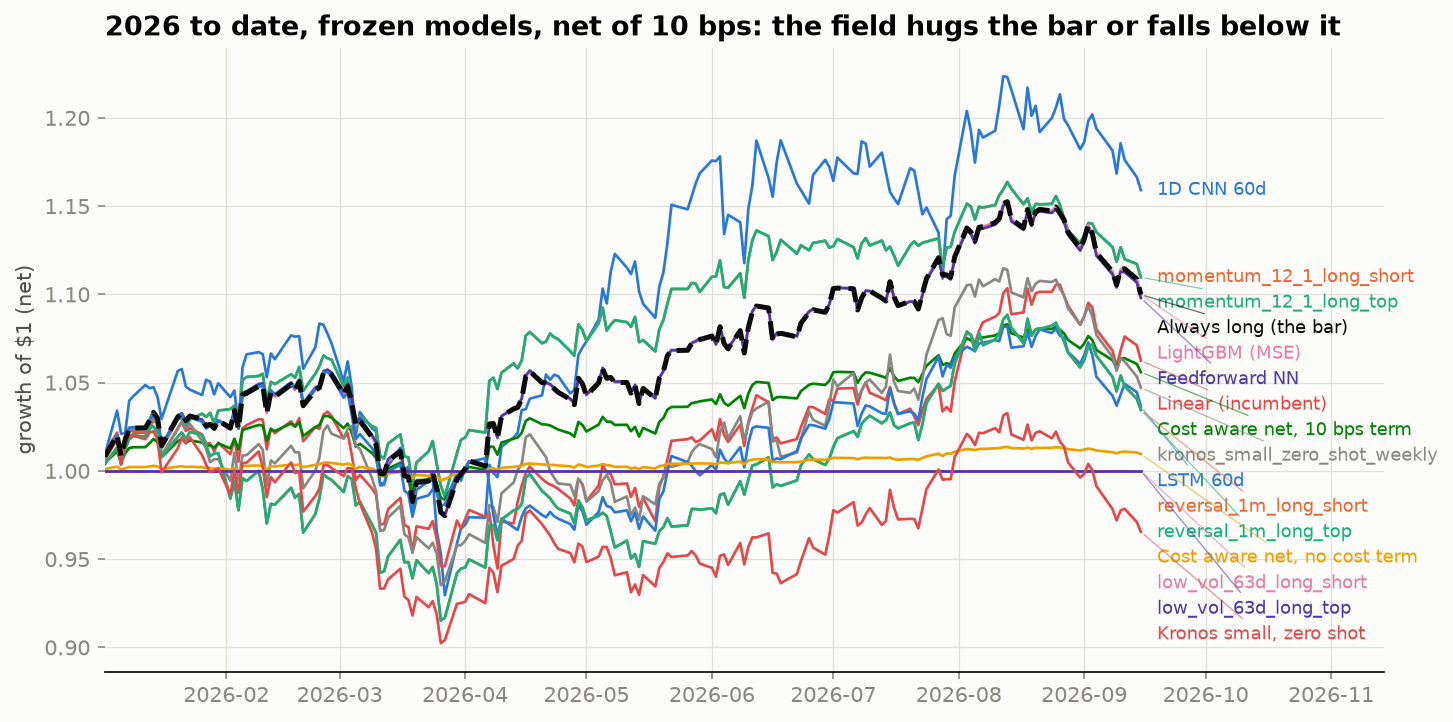
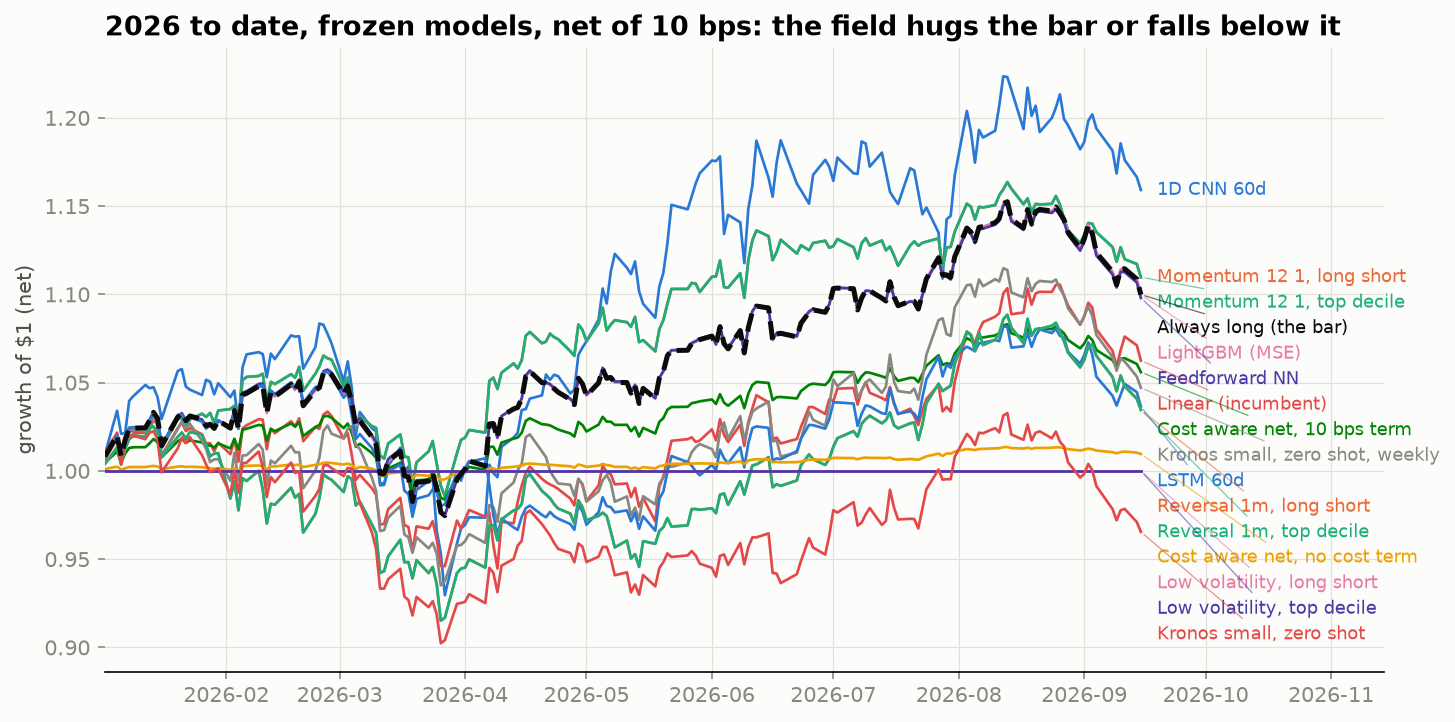
Name every contestant, and stop comparing market neutral books with a long index
The figures showed raw identifiers for the factors and the weekly Kronos
entry. More substantially, the index comparison was being computed and
drawn for dollar neutral contestants, whose bar is cash: asking whether
a market neutral book beat a long only index measures the market, not
the book. It is now only computed for contestants that are long, which
matches what the leaderboard tables already showed.

diff --git a/scripts/make_figures.py b/scripts/make_figures.py
@@ -39,6 +39,16 @@ LABELS = {
     "lightgbm_mse": "LightGBM (MSE)", "kronos_small_zero_shot": "Kronos small, zero shot",
     "costaware_net_lambda0bps_3seed_mean": "Cost aware net, no cost term",
     "costaware_net_lambda10bps_3seed_mean": "Cost aware net, 10 bps term",
+    "kronos_small_zero_shot_weekly": "Kronos small, zero shot, weekly",
+    "momentum_12_1_long_short": "Momentum 12 1, long short",
+    "momentum_12_1_long_top": "Momentum 12 1, top decile",
+    "low_vol_63d_long_short": "Low volatility, long short",
+    "low_vol_63d_long_top": "Low volatility, top decile",
+    "reversal_1m_long_short": "Reversal 1m, long short",
+    "reversal_1m_long_top": "Reversal 1m, top decile",
+    "linear_pit": "Linear (point in time)", "lightgbm_pit": "LightGBM (point in time)",
+    "lightgbm_rank_pit": "LightGBM rank", "ffnn_pit": "Feedforward (point in time)",
+    "ffnn_rank_pit": "Feedforward rank",
 }
 
 

diff --git a/beatnothing/leaderboard.py b/beatnothing/leaderboard.py
@@ -127,7 +127,9 @@ def score_window(actual: pd.DataFrame, wide: pd.DataFrame, kind: str, start, end
         # flat fifty basis points a year is the optimistic case. Price the pessimistic one.
         stats["net_sharpe_borrow_500bps"] = Backtest(a, cost_bps=cost_bps, borrow_bps_annual=500.0, **kw
                                                      ).stats()["net_sharpe"]
-    if investable is not None:
+    # A dollar neutral book competes with cash, so measuring it against a long index says
+    # nothing about it; the comparison is only meaningful for a contestant that is long.
+    if investable is not None and not dollar_neutral:
         inv = investable.reindex(r.index)
         ok = inv.notna().values
         if ok.sum() >= 20:

diff --git a/leaderboard/LEADERBOARD.md b/leaderboard/LEADERBOARD.md
@@ -9,35 +9,35 @@ Universe bar: always long, equal weight, same universe, same costs. Costs: 10 bp
 
 <table>
 <tr><th>Contestant</th><th>Rule</th><th>Net Edge</th><th>95% CI</th><th>p</th><th>p adj</th><th>Clears bar</th><th>Edge vs RSP</th><th>95% CI</th><th>Net Sharpe</th><th>Gross Sharpe</th><th>Sharpe at 20 bps</th><th>Sharpe at 500 bps borrow</th><th>Max DD</th><th>Turnover/yr</th><th>Avg exposure</th><th>P&amp;L on $1M</th></tr>
-<tr><td>always_long</td><td>long_flat</td><td>+0.00</td><td>[+0.00, +0.00]</td><td>1.000</td><td>1.000</td><td>no</td><td>+0.44</td><td>[+0.12, +0.73]</td><td>+0.88</td><td>+0.88</td><td>+0.88</td><td></td><td>-20.9%</td><td>0.3x</td><td>100.0%</td><td>+663,322</td></tr>
-<tr><td>ffnn_128_64_32</td><td>long_flat</td><td>-0.03</td><td>[-0.06, -0.01]</td><td>1.000</td><td>1.000</td><td>no</td><td>+0.41</td><td>[+0.09, +0.69]</td><td>+0.85</td><td>+0.88</td><td>+0.82</td><td></td><td>-21.3%</td><td>4.3x</td><td>100.0%</td><td>+631,816</td></tr>
-<tr><td>costaware_net_lambda10bps_3seed_mean</td><td>long_flat</td><td>-0.04</td><td>[-0.12, +0.01]</td><td>0.934</td><td>1.000</td><td>no</td><td>+0.40</td><td>[+0.12, +0.70]</td><td>+0.83</td><td>+0.87</td><td>+0.80</td><td></td><td>-12.0%</td><td>2.9x</td><td>56.0%</td><td>+345,138</td></tr>
-<tr><td>lightgbm_mse</td><td>long_flat</td><td>-0.14</td><td>[-0.42, +0.09]</td><td>0.860</td><td>1.000</td><td>no</td><td>+0.30</td><td>[-0.05, +0.69]</td><td>+0.74</td><td>+0.79</td><td>+0.69</td><td></td><td>-22.5%</td><td>7.2x</td><td>98.4%</td><td>+495,796</td></tr>
-<tr><td>lstm_60d</td><td>long_flat</td><td>-0.53</td><td>[-0.98, -0.14]</td><td>0.993</td><td>1.000</td><td>no</td><td>-0.08</td><td>[-0.59, +0.34]</td><td>+0.35</td><td>+0.62</td><td>+0.08</td><td></td><td>-20.5%</td><td>42.7x</td><td>98.5%</td><td>+189,470</td></tr>
-<tr><td>costaware_net_lambda0bps_3seed_mean</td><td>long_flat</td><td>-0.70</td><td>[-1.25, -0.11]</td><td>0.997</td><td>1.000</td><td>no</td><td>-0.26</td><td>[-0.84, +0.37]</td><td>+0.18</td><td>+0.53</td><td>-0.17</td><td></td><td>-6.4%</td><td>11.5x</td><td>11.6%</td><td>+21,510</td></tr>
-<tr><td>cnn1d_60d</td><td>long_flat</td><td>-0.93</td><td>[-1.52, -0.16]</td><td>0.993</td><td>1.000</td><td>no</td><td>-0.49</td><td>[-1.15, +0.14]</td><td>-0.05</td><td>+1.08</td><td>-1.18</td><td></td><td>-34.9%</td><td>265.2x</td><td>98.9%</td><td>-145,881</td></tr>
-<tr><td>linear_incumbent</td><td>long_flat</td><td>-1.17</td><td>[-1.79, -0.63]</td><td>1.000</td><td>1.000</td><td>no</td><td>-0.73</td><td>[-1.37, -0.16]</td><td>-0.30</td><td>+0.51</td><td>-1.10</td><td></td><td>-41.2%</td><td>159.2x</td><td>99.0%</td><td>-267,985</td></tr>
-<tr><td>kronos_small_zero_shot</td><td>long_flat</td><td>-1.67</td><td>[-2.03, -1.24]</td><td>1.000</td><td>1.000</td><td>no</td><td>-1.23</td><td>[-1.68, -0.83]</td><td>-0.79</td><td>+0.52</td><td>-2.10</td><td></td><td>-53.0%</td><td>240.6x</td><td>100.0%</td><td>-475,324</td></tr>
+<tr><td>always_long</td><td>long_flat</td><td>+0.00</td><td>[+0.00, +0.00]</td><td>1.000</td><td>1.000</td><td>no</td><td>+0.44</td><td>[+0.13, +0.74]</td><td>+0.88</td><td>+0.88</td><td>+0.88</td><td></td><td>-20.9%</td><td>0.3x</td><td>100.0%</td><td>+663,322</td></tr>
+<tr><td>ffnn_128_64_32</td><td>long_flat</td><td>-0.03</td><td>[-0.06, -0.01]</td><td>0.998</td><td>1.000</td><td>no</td><td>+0.41</td><td>[+0.10, +0.71]</td><td>+0.85</td><td>+0.88</td><td>+0.82</td><td></td><td>-21.3%</td><td>4.3x</td><td>100.0%</td><td>+631,816</td></tr>
+<tr><td>costaware_net_lambda10bps_3seed_mean</td><td>long_flat</td><td>-0.04</td><td>[-0.11, +0.01]</td><td>0.934</td><td>1.000</td><td>no</td><td>+0.40</td><td>[+0.09, +0.71]</td><td>+0.83</td><td>+0.87</td><td>+0.80</td><td></td><td>-12.0%</td><td>2.9x</td><td>56.0%</td><td>+345,138</td></tr>
+<tr><td>lightgbm_mse</td><td>long_flat</td><td>-0.14</td><td>[-0.46, +0.09]</td><td>0.866</td><td>1.000</td><td>no</td><td>+0.30</td><td>[-0.15, +0.69]</td><td>+0.74</td><td>+0.79</td><td>+0.69</td><td></td><td>-22.5%</td><td>7.2x</td><td>98.4%</td><td>+495,796</td></tr>
+<tr><td>lstm_60d</td><td>long_flat</td><td>-0.53</td><td>[-1.00, -0.12]</td><td>0.994</td><td>1.000</td><td>no</td><td>-0.08</td><td>[-0.58, +0.37]</td><td>+0.35</td><td>+0.62</td><td>+0.08</td><td></td><td>-20.5%</td><td>42.7x</td><td>98.5%</td><td>+189,470</td></tr>
+<tr><td>costaware_net_lambda0bps_3seed_mean</td><td>long_flat</td><td>-0.70</td><td>[-1.27, -0.09]</td><td>0.990</td><td>1.000</td><td>no</td><td>-0.26</td><td>[-0.84, +0.42]</td><td>+0.18</td><td>+0.53</td><td>-0.17</td><td></td><td>-6.4%</td><td>11.5x</td><td>11.6%</td><td>+21,510</td></tr>
+<tr><td>cnn1d_60d</td><td>long_flat</td><td>-0.93</td><td>[-1.55, -0.29]</td><td>0.997</td><td>1.000</td><td>no</td><td>-0.49</td><td>[-1.17, +0.20]</td><td>-0.05</td><td>+1.08</td><td>-1.18</td><td></td><td>-34.9%</td><td>265.2x</td><td>98.9%</td><td>-145,881</td></tr>
+<tr><td>linear_incumbent</td><td>long_flat</td><td>-1.17</td><td>[-1.82, -0.62]</td><td>1.000</td><td>1.000</td><td>no</td><td>-0.73</td><td>[-1.38, -0.18]</td><td>-0.30</td><td>+0.51</td><td>-1.10</td><td></td><td>-41.2%</td><td>159.2x</td><td>99.0%</td><td>-267,985</td></tr>
+<tr><td>kronos_small_zero_shot</td><td>long_flat</td><td>-1.67</td><td>[-2.09, -1.26]</td><td>1.000</td><td>1.000</td><td>no</td><td>-1.23</td><td>[-1.69, -0.80]</td><td>-0.79</td><td>+0.52</td><td>-2.10</td><td></td><td>-53.0%</td><td>240.6x</td><td>100.0%</td><td>-475,324</td></tr>
 </table>
 
-Universe bar net Sharpe +0.88 against RSP +0.44: the universe bar's edge over the investable index is +0.44 [+0.12, +0.73]. That is how much choosing the universe with hindsight was worth on this window.
+Universe bar net Sharpe +0.88 against RSP +0.44: the universe bar's edge over the investable index is +0.44 [+0.13, +0.74]. That is how much choosing the universe with hindsight was worth on this window.
 
 ## post cutoff 2026  (2026-01-01 to 2026-12-31)
 
 <table>
 <tr><th>Contestant</th><th>Rule</th><th>Net Edge</th><th>95% CI</th><th>p</th><th>p adj</th><th>Clears bar</th><th>Edge vs RSP</th><th>95% CI</th><th>Net Sharpe</th><th>Gross Sharpe</th><th>Sharpe at 20 bps</th><th>Sharpe at 500 bps borrow</th><th>Max DD</th><th>Turnover/yr</th><th>Avg exposure</th><th>P&amp;L on $1M</th></tr>
-<tr><td>costaware_net_lambda0bps_3seed_mean</td><td>long_flat</td><td>+0.18</td><td>[-0.54, +0.94]</td><td>0.379</td><td>0.907</td><td>no</td><td>+0.32</td><td>[-0.90, +1.54]</td><td>+1.62</td><td>+2.47</td><td>+0.78</td><td></td><td>-0.7%</td><td>9.7x</td><td>9.4%</td><td>+13,051</td></tr>
-<tr><td>costaware_net_lambda10bps_3seed_mean</td><td>long_flat</td><td>+0.00</td><td>[-0.12, +0.09]</td><td>0.518</td><td>0.970</td><td>no</td><td>+0.15</td><td>[-0.81, +1.30]</td><td>+1.45</td><td>+1.50</td><td>+1.39</td><td></td><td>-3.6%</td><td>3.3x</td><td>55.5%</td><td>+58,151</td></tr>
-<tr><td>always_long</td><td>long_flat</td><td>+0.00</td><td>[+0.00, +0.00]</td><td>1.000</td><td>1.000</td><td>no</td><td>+0.14</td><td>[-0.79, +1.34]</td><td>+1.44</td><td>+1.46</td><td>+1.43</td><td></td><td>-6.1%</td><td>1.4x</td><td>100.0%</td><td>+103,176</td></tr>
-<tr><td>lightgbm_mse</td><td>long_flat</td><td>+0.00</td><td>[+0.00, +0.00]</td><td>1.000</td><td>1.000</td><td>no</td><td>+0.14</td><td>[-0.79, +1.34]</td><td>+1.44</td><td>+1.46</td><td>+1.43</td><td></td><td>-6.1%</td><td>1.4x</td><td>100.0%</td><td>+103,176</td></tr>
-<tr><td>ffnn_128_64_32</td><td>long_flat</td><td>-0.08</td><td>[-0.18, +0.02]</td><td>0.940</td><td>1.000</td><td>no</td><td>+0.06</td><td>[-0.90, +1.25]</td><td>+1.36</td><td>+1.43</td><td>+1.29</td><td></td><td>-6.1%</td><td>7.6x</td><td>100.0%</td><td>+97,155</td></tr>
-<tr><td>cnn1d_60d</td><td>long_flat</td><td>-1.04</td><td>[-2.86, +0.85]</td><td>0.870</td><td>1.000</td><td>no</td><td>-0.90</td><td>[-2.85, +1.27]</td><td>+0.40</td><td>+2.12</td><td>-1.31</td><td></td><td>-12.0%</td><td>323.1x</td><td>96.6%</td><td>+41,465</td></tr>
-<tr><td>linear_incumbent</td><td>long_flat</td><td>-1.33</td><td>[-2.93, +0.16]</td><td>0.963</td><td>1.000</td><td>no</td><td>-1.19</td><td>[-3.07, +0.42]</td><td>+0.12</td><td>+1.35</td><td>-1.13</td><td></td><td>-9.1%</td><td>164.8x</td><td>100.0%</td><td>+4,546</td></tr>
-<tr><td>kronos_small_zero_shot</td><td>long_flat</td><td>-1.64</td><td>[-2.84, -0.36]</td><td>0.993</td><td>1.000</td><td>no</td><td>-1.50</td><td>[-3.20, +0.35]</td><td>-0.20</td><td>+1.71</td><td>-2.09</td><td></td><td>-14.3%</td><td>244.8x</td><td>99.4%</td><td>-23,341</td></tr>
-<tr><td>lstm_60d</td><td>long_flat</td><td>-1.65</td><td>[-3.49, -0.48]</td><td>0.997</td><td>1.000</td><td>no</td><td>-1.50</td><td>[-3.53, +0.64]</td><td>-0.20</td><td>+0.20</td><td>-0.60</td><td></td><td>-9.3%</td><td>42.8x</td><td>100.0%</td><td>-19,077</td></tr>
+<tr><td>costaware_net_lambda0bps_3seed_mean</td><td>long_flat</td><td>+0.18</td><td>[-0.62, +1.01]</td><td>0.321</td><td>0.908</td><td>no</td><td>+0.32</td><td>[-0.87, +1.59]</td><td>+1.62</td><td>+2.47</td><td>+0.78</td><td></td><td>-0.7%</td><td>9.7x</td><td>9.4%</td><td>+13,051</td></tr>
+<tr><td>costaware_net_lambda10bps_3seed_mean</td><td>long_flat</td><td>+0.00</td><td>[-0.11, +0.11]</td><td>0.476</td><td>0.962</td><td>no</td><td>+0.15</td><td>[-1.06, +1.31]</td><td>+1.45</td><td>+1.50</td><td>+1.39</td><td></td><td>-3.6%</td><td>3.3x</td><td>55.5%</td><td>+58,151</td></tr>
+<tr><td>always_long</td><td>long_flat</td><td>+0.00</td><td>[+0.00, +0.00]</td><td>1.000</td><td>1.000</td><td>no</td><td>+0.14</td><td>[-1.08, +1.32]</td><td>+1.44</td><td>+1.46</td><td>+1.43</td><td></td><td>-6.1%</td><td>1.4x</td><td>100.0%</td><td>+103,176</td></tr>
+<tr><td>lightgbm_mse</td><td>long_flat</td><td>+0.00</td><td>[+0.00, +0.00]</td><td>1.000</td><td>1.000</td><td>no</td><td>+0.14</td><td>[-1.08, +1.32]</td><td>+1.44</td><td>+1.46</td><td>+1.43</td><td></td><td>-6.1%</td><td>1.4x</td><td>100.0%</td><td>+103,176</td></tr>
+<tr><td>ffnn_128_64_32</td><td>long_flat</td><td>-0.08</td><td>[-0.20, +0.02]</td><td>0.940</td><td>1.000</td><td>no</td><td>+0.06</td><td>[-1.18, +1.23]</td><td>+1.36</td><td>+1.43</td><td>+1.29</td><td></td><td>-6.1%</td><td>7.6x</td><td>100.0%</td><td>+97,155</td></tr>
+<tr><td>cnn1d_60d</td><td>long_flat</td><td>-1.04</td><td>[-3.08, +0.88]</td><td>0.869</td><td>1.000</td><td>no</td><td>-0.90</td><td>[-3.08, +1.21]</td><td>+0.40</td><td>+2.12</td><td>-1.31</td><td></td><td>-12.0%</td><td>323.1x</td><td>96.6%</td><td>+41,465</td></tr>
+<tr><td>linear_incumbent</td><td>long_flat</td><td>-1.33</td><td>[-3.38, +0.01]</td><td>0.974</td><td>1.000</td><td>no</td><td>-1.19</td><td>[-3.05, +0.55]</td><td>+0.12</td><td>+1.35</td><td>-1.13</td><td></td><td>-9.1%</td><td>164.8x</td><td>100.0%</td><td>+4,546</td></tr>
+<tr><td>kronos_small_zero_shot</td><td>long_flat</td><td>-1.64</td><td>[-3.11, -0.24]</td><td>0.990</td><td>1.000</td><td>no</td><td>-1.50</td><td>[-3.14, +0.29]</td><td>-0.20</td><td>+1.71</td><td>-2.09</td><td></td><td>-14.3%</td><td>244.8x</td><td>99.4%</td><td>-23,341</td></tr>
+<tr><td>lstm_60d</td><td>long_flat</td><td>-1.65</td><td>[-3.90, -0.36]</td><td>0.994</td><td>1.000</td><td>no</td><td>-1.50</td><td>[-3.83, +0.49]</td><td>-0.20</td><td>+0.20</td><td>-0.60</td><td></td><td>-9.3%</td><td>42.8x</td><td>100.0%</td><td>-19,077</td></tr>
 </table>
 
-Universe bar net Sharpe +1.44 against RSP +1.30: the universe bar's edge over the investable index is +0.14 [-0.79, +1.34]. That is how much choosing the universe with hindsight was worth on this window.
+Universe bar net Sharpe +1.44 against RSP +1.30: the universe bar's edge over the investable index is +0.14 [-1.08, +1.32]. That is how much choosing the universe with hindsight was worth on this window.
 
 ## Contestants
 

diff --git a/leaderboard/pit/LEADERBOARD.md b/leaderboard/pit/LEADERBOARD.md
@@ -9,7 +9,7 @@ Universe bar: always long, equal weight, same universe, same costs. Costs: 10 bp
 
 <table>
 <tr><th>Contestant</th><th>Rule</th><th>Net Edge</th><th>95% CI</th><th>p</th><th>p adj</th><th>Clears bar</th><th>Edge vs RSP</th><th>95% CI</th><th>Net Sharpe</th><th>Gross Sharpe</th><th>Sharpe at 20 bps</th><th>Sharpe at 500 bps borrow</th><th>Max DD</th><th>Turnover/yr</th><th>Avg exposure</th><th>P&amp;L on $1M</th></tr>
-<tr><td>momentum_12_1_long_short</td><td>long_short vs cash</td><td>+0.21</td><td>[-0.79, +1.20]</td><td>0.336</td><td>0.982</td><td>no</td><td>-0.23</td><td>[-1.81, +1.47]</td><td>+0.21</td><td>+0.27</td><td>+0.15</td><td>+0.01</td><td>-16.7%</td><td>7.0x</td><td>0.0%</td><td>+70,526</td></tr>
+<tr><td>momentum_12_1_long_short</td><td>long_short vs cash</td><td>+0.21</td><td>[-0.79, +1.20]</td><td>0.336</td><td>0.982</td><td>no</td><td></td><td></td><td>+0.21</td><td>+0.27</td><td>+0.15</td><td>+0.01</td><td>-16.7%</td><td>7.0x</td><td>0.0%</td><td>+70,526</td></tr>
 <tr><td>momentum_12_1_long_top</td><td>long_top</td><td>+0.16</td><td>[-0.48, +0.80]</td><td>0.303</td><td>0.979</td><td>no</td><td>+0.19</td><td>[-0.47, +0.83]</td><td>+0.63</td><td>+0.66</td><td>+0.59</td><td></td><td>-23.7%</td><td>7.2x</td><td>100.0%</td><td>+561,740</td></tr>
 <tr><td>low_vol_63d_long_top</td><td>long_top</td><td>+0.02</td><td>[-0.74, +0.76]</td><td>0.501</td><td>0.998</td><td>no</td><td>+0.05</td><td>[-0.72, +0.82]</td><td>+0.49</td><td>+0.55</td><td>+0.43</td><td></td><td>-14.3%</td><td>7.7x</td><td>100.0%</td><td>+232,140</td></tr>
 <tr><td>costaware_net_lambda10bps_3seed_mean</td><td>long_flat</td><td>+0.00</td><td>[-0.06, +0.07]</td><td>0.432</td><td>0.997</td><td>no</td><td>+0.03</td><td>[-0.03, +0.10]</td><td>+0.47</td><td>+0.50</td><td>+0.44</td><td></td><td>-11.7%</td><td>3.2x</td><td>56.3%</td><td>+185,477</td></tr>
@@ -17,11 +17,11 @@ Universe bar: always long, equal weight, same universe, same costs. Costs: 10 bp
 <tr><td>ffnn_128_64_32</td><td>long_flat</td><td>-0.02</td><td>[-0.03, -0.01]</td><td>1.000</td><td>1.000</td><td>no</td><td>+0.01</td><td>[-0.02, +0.05]</td><td>+0.45</td><td>+0.47</td><td>+0.42</td><td></td><td>-20.9%</td><td>4.3x</td><td>100.0%</td><td>+282,761</td></tr>
 <tr><td>lightgbm_mse</td><td>long_flat</td><td>-0.11</td><td>[-0.45, +0.12]</td><td>0.806</td><td>1.000</td><td>no</td><td>-0.08</td><td>[-0.43, +0.13]</td><td>+0.36</td><td>+0.40</td><td>+0.31</td><td></td><td>-22.4%</td><td>7.4x</td><td>98.4%</td><td>+195,297</td></tr>
 <tr><td>lstm_60d</td><td>long_flat</td><td>-0.25</td><td>[-0.53, +0.00]</td><td>0.974</td><td>1.000</td><td>no</td><td>-0.22</td><td>[-0.48, +0.02]</td><td>+0.21</td><td>+0.52</td><td>-0.09</td><td></td><td>-22.4%</td><td>50.5x</td><td>100.0%</td><td>+91,256</td></tr>
-<tr><td>low_vol_63d_long_short</td><td>long_short vs cash</td><td>-0.27</td><td>[-1.25, +0.69]</td><td>0.712</td><td>1.000</td><td>no</td><td>-0.71</td><td>[-2.57, +1.21]</td><td>-0.27</td><td>-0.22</td><td>-0.32</td><td>-0.44</td><td>-27.6%</td><td>6.7x</td><td>-0.0%</td><td>-168,504</td></tr>
+<tr><td>low_vol_63d_long_short</td><td>long_short vs cash</td><td>-0.27</td><td>[-1.25, +0.69]</td><td>0.712</td><td>1.000</td><td>no</td><td></td><td></td><td>-0.27</td><td>-0.22</td><td>-0.32</td><td>-0.44</td><td>-27.6%</td><td>6.7x</td><td>-0.0%</td><td>-168,504</td></tr>
 <tr><td>costaware_net_lambda0bps_3seed_mean</td><td>long_flat</td><td>-0.33</td><td>[-0.89, +0.24]</td><td>0.856</td><td>1.000</td><td>no</td><td>-0.30</td><td>[-0.91, +0.30]</td><td>+0.14</td><td>+0.49</td><td>-0.20</td><td></td><td>-5.7%</td><td>12.1x</td><td>11.9%</td><td>+17,358</td></tr>
 <tr><td>kronos_small_zero_shot_weekly</td><td>long_flat</td><td>-0.35</td><td>[-0.55, -0.16]</td><td>1.000</td><td>1.000</td><td>no</td><td>-0.32</td><td>[-0.53, -0.11]</td><td>+0.12</td><td>+0.38</td><td>-0.15</td><td></td><td>-25.3%</td><td>50.1x</td><td>100.0%</td><td>+17,268</td></tr>
 <tr><td>reversal_1m_long_top</td><td>long_top</td><td>-0.38</td><td>[-0.81, +0.03]</td><td>0.963</td><td>1.000</td><td>no</td><td>-0.35</td><td>[-0.78, +0.08]</td><td>+0.09</td><td>+0.17</td><td>+0.00</td><td></td><td>-27.4%</td><td>20.9x</td><td>100.0%</td><td>-35,323</td></tr>
-<tr><td>reversal_1m_long_short</td><td>long_short vs cash</td><td>-0.47</td><td>[-1.38, +0.49]</td><td>0.839</td><td>1.000</td><td>no</td><td>-0.91</td><td>[-2.05, +0.19]</td><td>-0.47</td><td>-0.25</td><td>-0.68</td><td>-0.70</td><td>-20.6%</td><td>20.8x</td><td>-0.0%</td><td>-179,846</td></tr>
+<tr><td>reversal_1m_long_short</td><td>long_short vs cash</td><td>-0.47</td><td>[-1.38, +0.49]</td><td>0.839</td><td>1.000</td><td>no</td><td></td><td></td><td>-0.47</td><td>-0.25</td><td>-0.68</td><td>-0.70</td><td>-20.6%</td><td>20.8x</td><td>-0.0%</td><td>-179,846</td></tr>
 <tr><td>linear_incumbent</td><td>long_flat</td><td>-0.80</td><td>[-1.09, -0.52]</td><td>1.000</td><td>1.000</td><td>no</td><td>-0.77</td><td>[-1.11, -0.48]</td><td>-0.34</td><td>+0.47</td><td>-1.14</td><td></td><td>-38.0%</td><td>150.9x</td><td>100.0%</td><td>-274,198</td></tr>
 <tr><td>cnn1d_60d</td><td>long_flat</td><td>-1.03</td><td>[-1.38, -0.70]</td><td>1.000</td><td>1.000</td><td>no</td><td>-1.00</td><td>[-1.36, -0.64]</td><td>-0.56</td><td>+0.53</td><td>-1.66</td><td></td><td>-52.0%</td><td>234.8x</td><td>100.0%</td><td>-434,622</td></tr>
 <tr><td>kronos_small_zero_shot</td><td>long_flat</td><td>-1.31</td><td>[-1.56, -1.06]</td><td>1.000</td><td>1.000</td><td>no</td><td>-1.28</td><td>[-1.53, -1.02]</td><td>-0.84</td><td>+0.35</td><td>-2.02</td><td></td><td>-55.2%</td><td>224.9x</td><td>100.0%</td><td>-506,415</td></tr>
@@ -33,7 +33,7 @@ Universe bar net Sharpe +0.47 against RSP +0.44: the universe bar's edge over th
 
 <table>
 <tr><th>Contestant</th><th>Rule</th><th>Net Edge</th><th>95% CI</th><th>p</th><th>p adj</th><th>Clears bar</th><th>Edge vs RSP</th><th>95% CI</th><th>Net Sharpe</th><th>Gross Sharpe</th><th>Sharpe at 20 bps</th><th>Sharpe at 500 bps borrow</th><th>Max DD</th><th>Turnover/yr</th><th>Avg exposure</th><th>P&amp;L on $1M</th></tr>
-<tr><td>momentum_12_1_long_short</td><td>long_short vs cash</td><td>+0.57</td><td>[-2.13, +3.12]</td><td>0.347</td><td>0.978</td><td>no</td><td>-0.68</td><td>[-3.98, +2.46]</td><td>+0.57</td><td>+0.60</td><td>+0.53</td><td>+0.47</td><td>-19.9%</td><td>7.1x</td><td>0.0%</td><td>+73,382</td></tr>
+<tr><td>momentum_12_1_long_short</td><td>long_short vs cash</td><td>+0.57</td><td>[-2.13, +3.12]</td><td>0.347</td><td>0.978</td><td>no</td><td></td><td></td><td>+0.57</td><td>+0.60</td><td>+0.53</td><td>+0.47</td><td>-19.9%</td><td>7.1x</td><td>0.0%</td><td>+73,382</td></tr>
 <tr><td>always_long</td><td>long_flat</td><td>+0.00</td><td>[+0.00, +0.00]</td><td>1.000</td><td>1.000</td><td>no</td><td>-0.01</td><td>[-0.32, +0.36]</td><td>+1.23</td><td>+1.25</td><td>+1.22</td><td></td><td>-7.7%</td><td>1.6x</td><td>100.0%</td><td>+99,898</td></tr>
 <tr><td>lightgbm_mse</td><td>long_flat</td><td>+0.00</td><td>[+0.00, +0.00]</td><td>1.000</td><td>1.000</td><td>no</td><td>-0.01</td><td>[-0.32, +0.36]</td><td>+1.23</td><td>+1.25</td><td>+1.22</td><td></td><td>-7.7%</td><td>1.6x</td><td>100.0%</td><td>+99,898</td></tr>
 <tr><td>costaware_net_lambda10bps_3seed_mean</td><td>long_flat</td><td>-0.02</td><td>[-0.14, +0.09]</td><td>0.647</td><td>1.000</td><td>no</td><td>-0.03</td><td>[-0.40, +0.41]</td><td>+1.21</td><td>+1.26</td><td>+1.16</td><td></td><td>-4.6%</td><td>3.5x</td><td>55.9%</td><td>+55,953</td></tr>
@@ -46,9 +46,9 @@ Universe bar net Sharpe +0.47 against RSP +0.44: the universe bar's edge over th
 <tr><td>lstm_60d</td><td>long_flat</td><td>-0.74</td><td>[-2.89, +0.47]</td><td>0.876</td><td>1.000</td><td>no</td><td>-0.75</td><td>[-2.68, +0.49]</td><td>+0.49</td><td>+0.89</td><td>+0.10</td><td></td><td>-8.8%</td><td>47.2x</td><td>100.0%</td><td>+36,514</td></tr>
 <tr><td>reversal_1m_long_top</td><td>long_top</td><td>-0.95</td><td>[-2.75, +0.88]</td><td>0.851</td><td>1.000</td><td>no</td><td>-0.96</td><td>[-2.89, +0.96]</td><td>+0.28</td><td>+0.39</td><td>+0.17</td><td></td><td>-13.0%</td><td>21.1x</td><td>100.0%</td><td>+25,395</td></tr>
 <tr><td>low_vol_63d_long_top</td><td>long_top</td><td>-1.06</td><td>[-3.44, +1.21]</td><td>0.821</td><td>1.000</td><td>no</td><td>-1.07</td><td>[-3.61, +1.20]</td><td>+0.18</td><td>+0.24</td><td>+0.11</td><td></td><td>-7.7%</td><td>6.9x</td><td>100.0%</td><td>+9,302</td></tr>
-<tr><td>low_vol_63d_long_short</td><td>long_short vs cash</td><td>-1.32</td><td>[-3.68, +0.97]</td><td>0.862</td><td>1.000</td><td>no</td><td>-2.57</td><td>[-6.11, +0.92]</td><td>-1.32</td><td>-1.28</td><td>-1.36</td><td>-1.44</td><td>-19.0%</td><td>7.0x</td><td>0.0%</td><td>-162,525</td></tr>
+<tr><td>low_vol_63d_long_short</td><td>long_short vs cash</td><td>-1.32</td><td>[-3.68, +0.97]</td><td>0.862</td><td>1.000</td><td>no</td><td></td><td></td><td>-1.32</td><td>-1.28</td><td>-1.36</td><td>-1.44</td><td>-19.0%</td><td>7.0x</td><td>0.0%</td><td>-162,525</td></tr>
 <tr><td>kronos_small_zero_shot</td><td>long_flat</td><td>-1.53</td><td>[-2.43, -0.58]</td><td>0.999</td><td>1.000</td><td>no</td><td>-1.54</td><td>[-2.88, -0.26]</td><td>-0.29</td><td>+1.26</td><td>-1.84</td><td></td><td>-11.7%</td><td>217.1x</td><td>100.0%</td><td>-34,556</td></tr>
-<tr><td>reversal_1m_long_short</td><td>long_short vs cash</td><td>-1.73</td><td>[-3.92, +0.71]</td><td>0.919</td><td>1.000</td><td>no</td><td>-2.98</td><td>[-6.03, +0.35]</td><td>-1.73</td><td>-1.57</td><td>-1.89</td><td>-1.90</td><td>-21.5%</td><td>20.8x</td><td>0.0%</td><td>-149,537</td></tr>
+<tr><td>reversal_1m_long_short</td><td>long_short vs cash</td><td>-1.73</td><td>[-3.92, +0.71]</td><td>0.919</td><td>1.000</td><td>no</td><td></td><td></td><td>-1.73</td><td>-1.57</td><td>-1.89</td><td>-1.90</td><td>-21.5%</td><td>20.8x</td><td>0.0%</td><td>-149,537</td></tr>
 </table>
 
 Universe bar net Sharpe +1.23 against RSP +1.25: the universe bar's edge over the investable index is -0.01 [-0.32, +0.36]. That is how much choosing the universe with hindsight was worth on this window.
